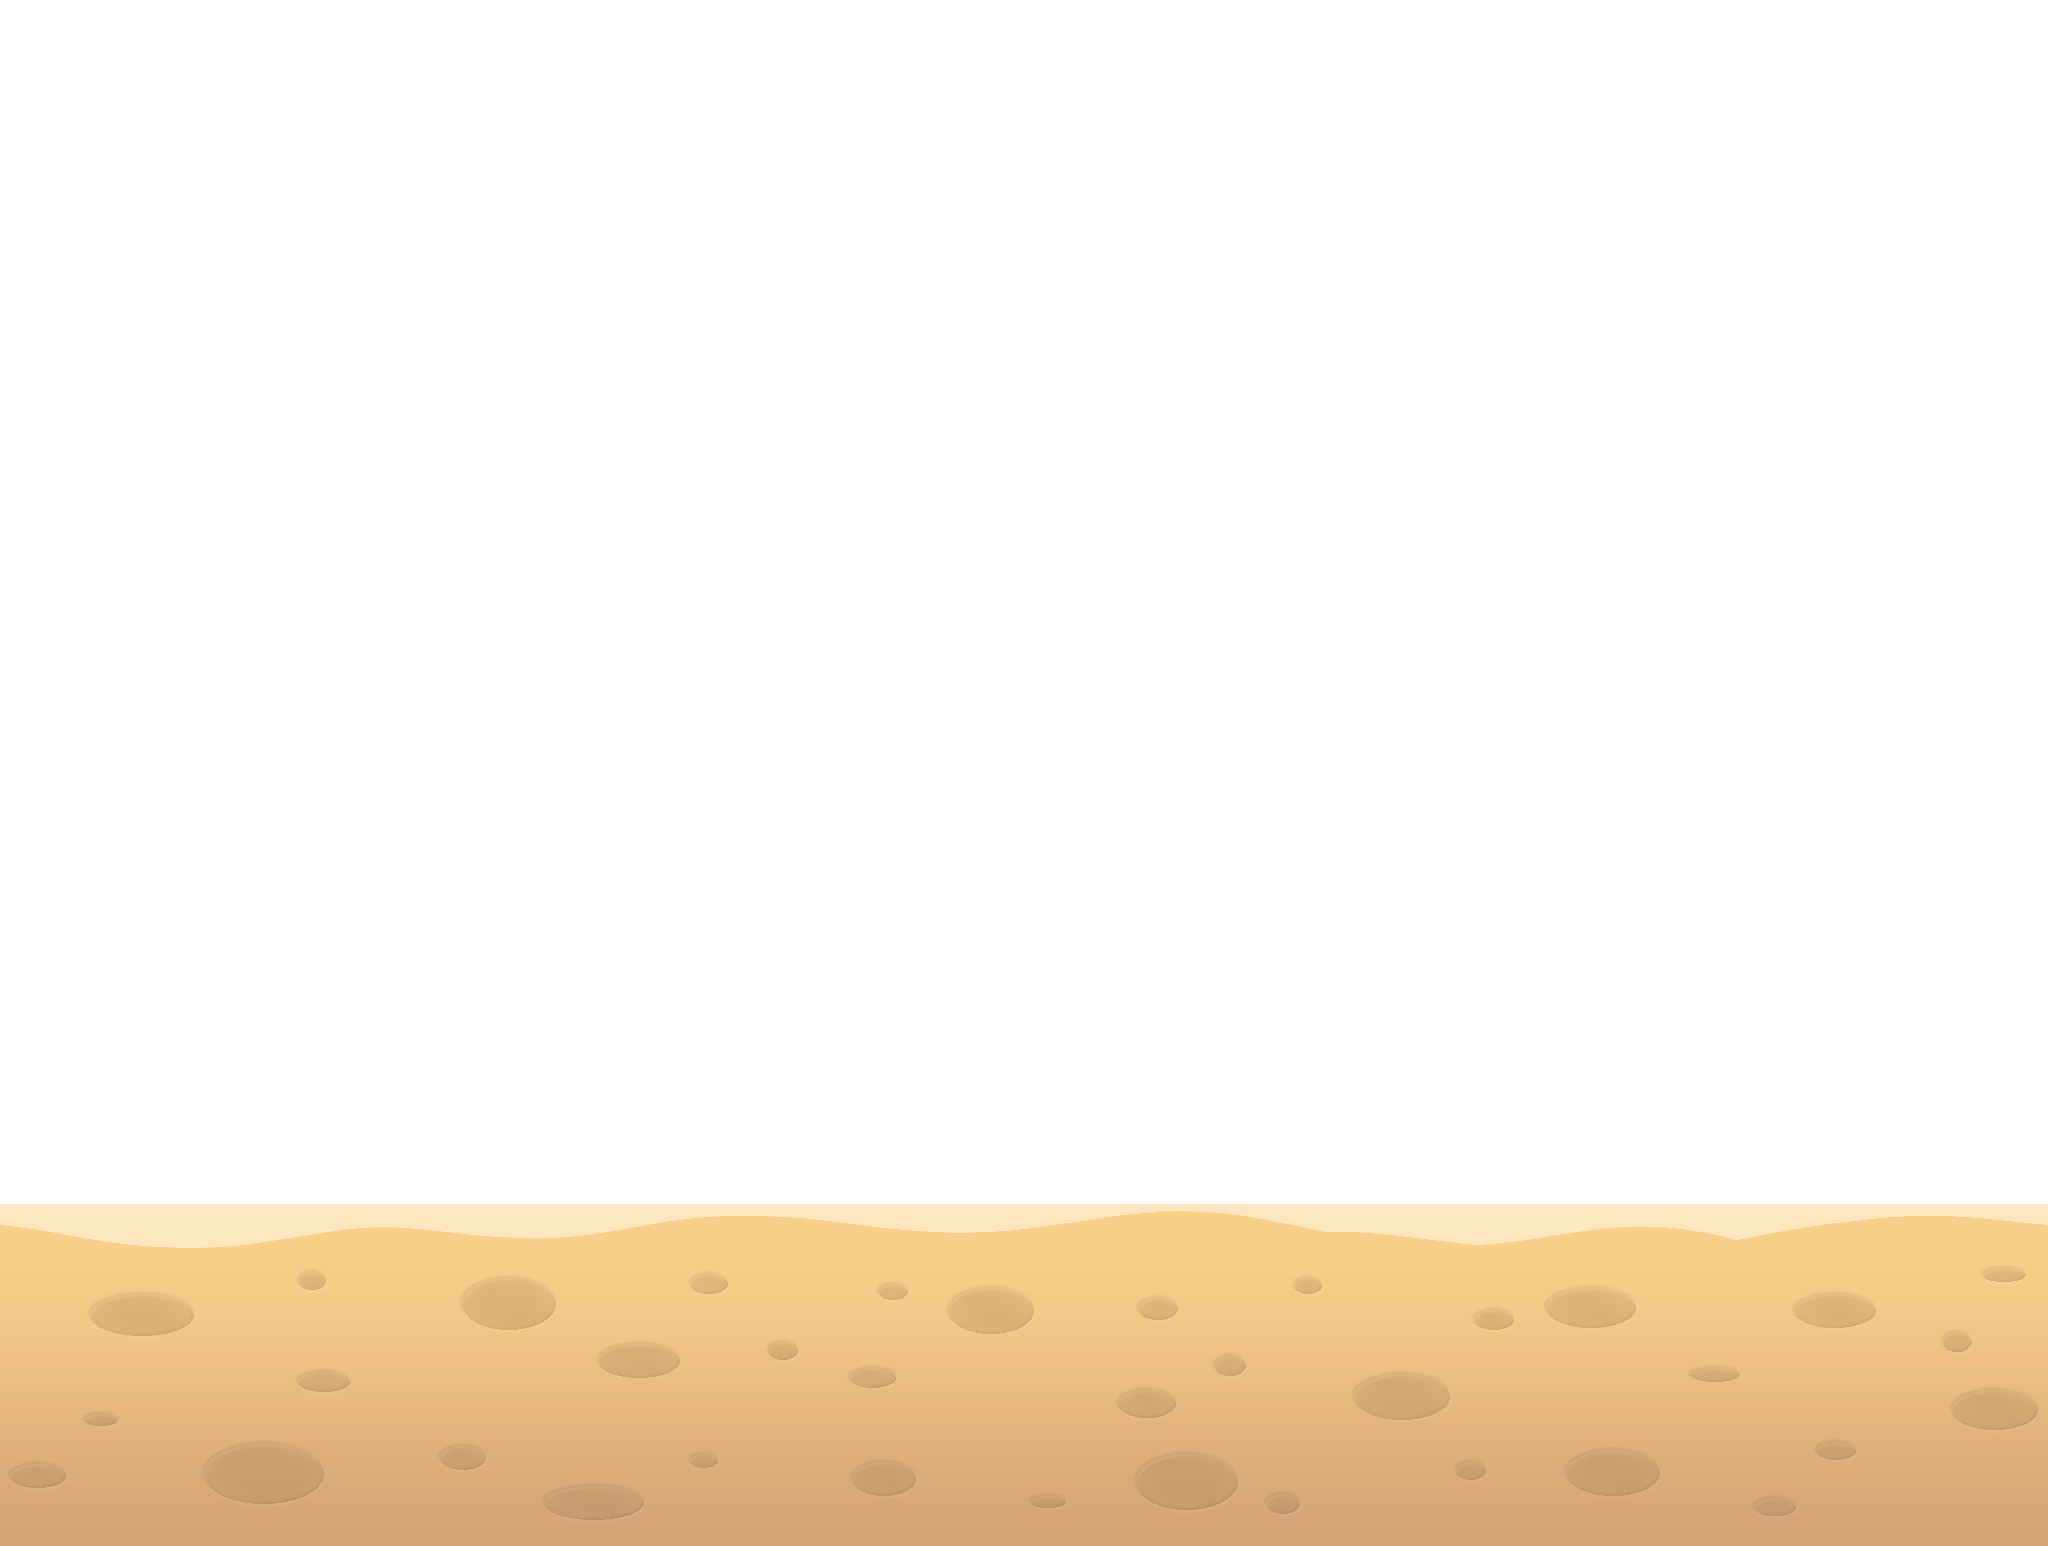
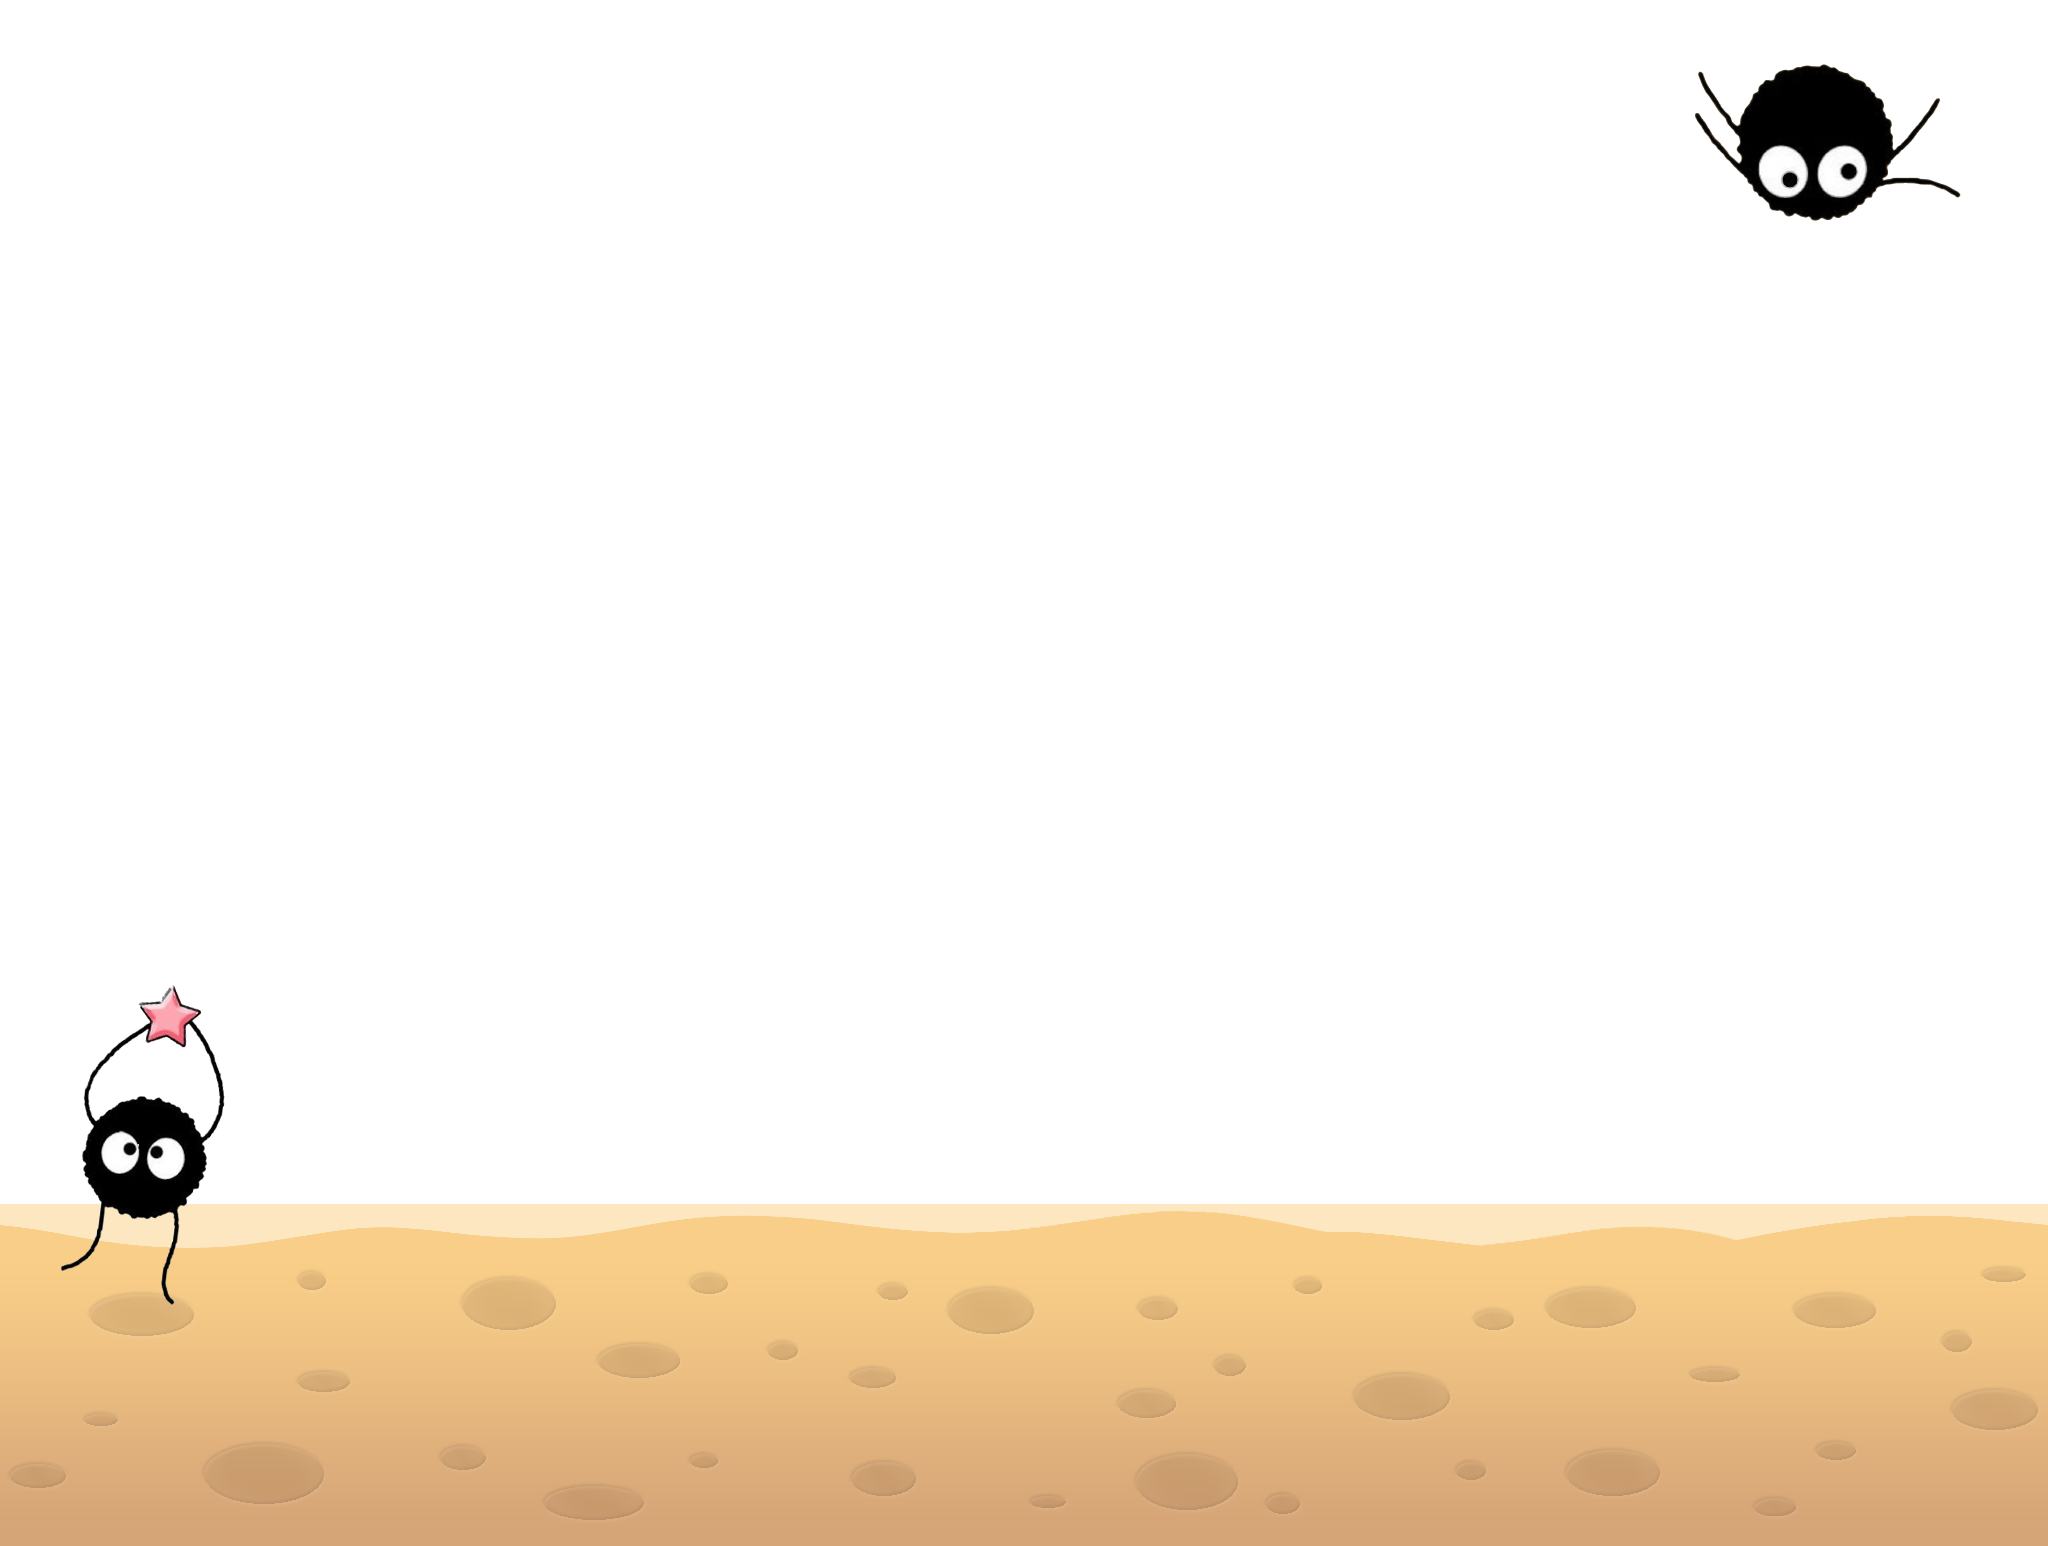
character changed, changing spirit

Changed region(s): [[0.8125, 0.031, 0.9375, 0.1552], [0.0312, 0.7141, 0.125, 0.8072], [0.0625, 0.621, 0.0938, 0.6831]]

diff --git a/script/script.js b/script/script.js
@@ -8,37 +8,50 @@ let distanttrees = document.getElementById("distant_trees");
 let clouds = document.getElementById("clouds");
 let ground = document.getElementById('ground');
 
+changeSpirit();
+
 document.addEventListener('keydown', function (event) {
     if (event.key && !keys.includes(event.key)) {
         keys.push(event.key);
         console.log(keys);
         changePosition();
+        changeSpirit();
     }
 });
 
 document.addEventListener('keyup', function (event) {
     if (event.key) {
-        var index = keys.indexOf(event.key);
+        let index = keys.indexOf(event.key);
         if (index !== -1) {
             keys.splice(index, 1);
         }
     }
+    changeSpirit();
 });
 
 function changePosition() {
     if (keys.includes('ArrowRight')) {
         x -= 1;
-        character.style.transform = 'scaleX(1)';
+        character.style.transform = 'scaleX(-1)';
     }
     if (keys.includes('ArrowLeft')) {
         x += 1;
-        character.style.transform = 'scaleX(-1)';
+        character.style.transform = 'scaleX(1)';
     }
     ground.style.backgroundPositionX = 4 * x + "px";
     treesbushes.style.backgroundPositionX = 3 * x + "px";
     distanttrees.style.backgroundPositionX = 2 * x + "px";
     clouds.style.backgroundPositionX = x + "px";
     setTimeout(changePosition, tic);
+}
+function changeSpirit() {
+    if (keys.length !== 0) {
+    character.style.backgroundImage = "url(../images/walking.gif)";
+    character.style.backgroundSize = "260px";
+    } else {
+    character.style.backgroundImage = "url(../images/idle.gif)";
+    character.style.backgroundSize = "100px";
+    }
 }
 
 

diff --git a/style/style.css b/style/style.css
@@ -4,14 +4,15 @@
     box-sizing: border-box;
 }
 #character {
-    background-image: url("../images/walking.gif");
-    background-size: cover;
-    width: 160px;
-    height: 150px;
+    background-image: url("../images/idle.gif");;
+    background-size: 110px;
+    width: 200px;
+    height: 200px;
     position: absolute;
-    bottom: 127px;
-    left: 40vw;
+    bottom: 37px;
+    left: 50vw;
     z-index: 2;
+    background-repeat: no-repeat;
 }
 
 #background {
@@ -27,7 +28,7 @@
     width: 100%;
     background-image: url("../images/01_ground.png");
     background-position: bottom;
-    background-size: 1000px;
+    background-size: 940px;
     background-repeat: repeat-x;
     z-index: 0;
 

diff --git a/index.html b/index.html
@@ -6,7 +6,7 @@
           content="width=device-width, user-scalable=no, initial-scale=1.0, maximum-scale=1.0, minimum-scale=1.0">
     <meta http-equiv="X-UA-Compatible" content="ie=edge">
     <link rel="stylesheet" href="style/style.css">
-    <title>Mickey</title>
+    <title>My friend Totoro</title>
 </head>
 <body>
 
